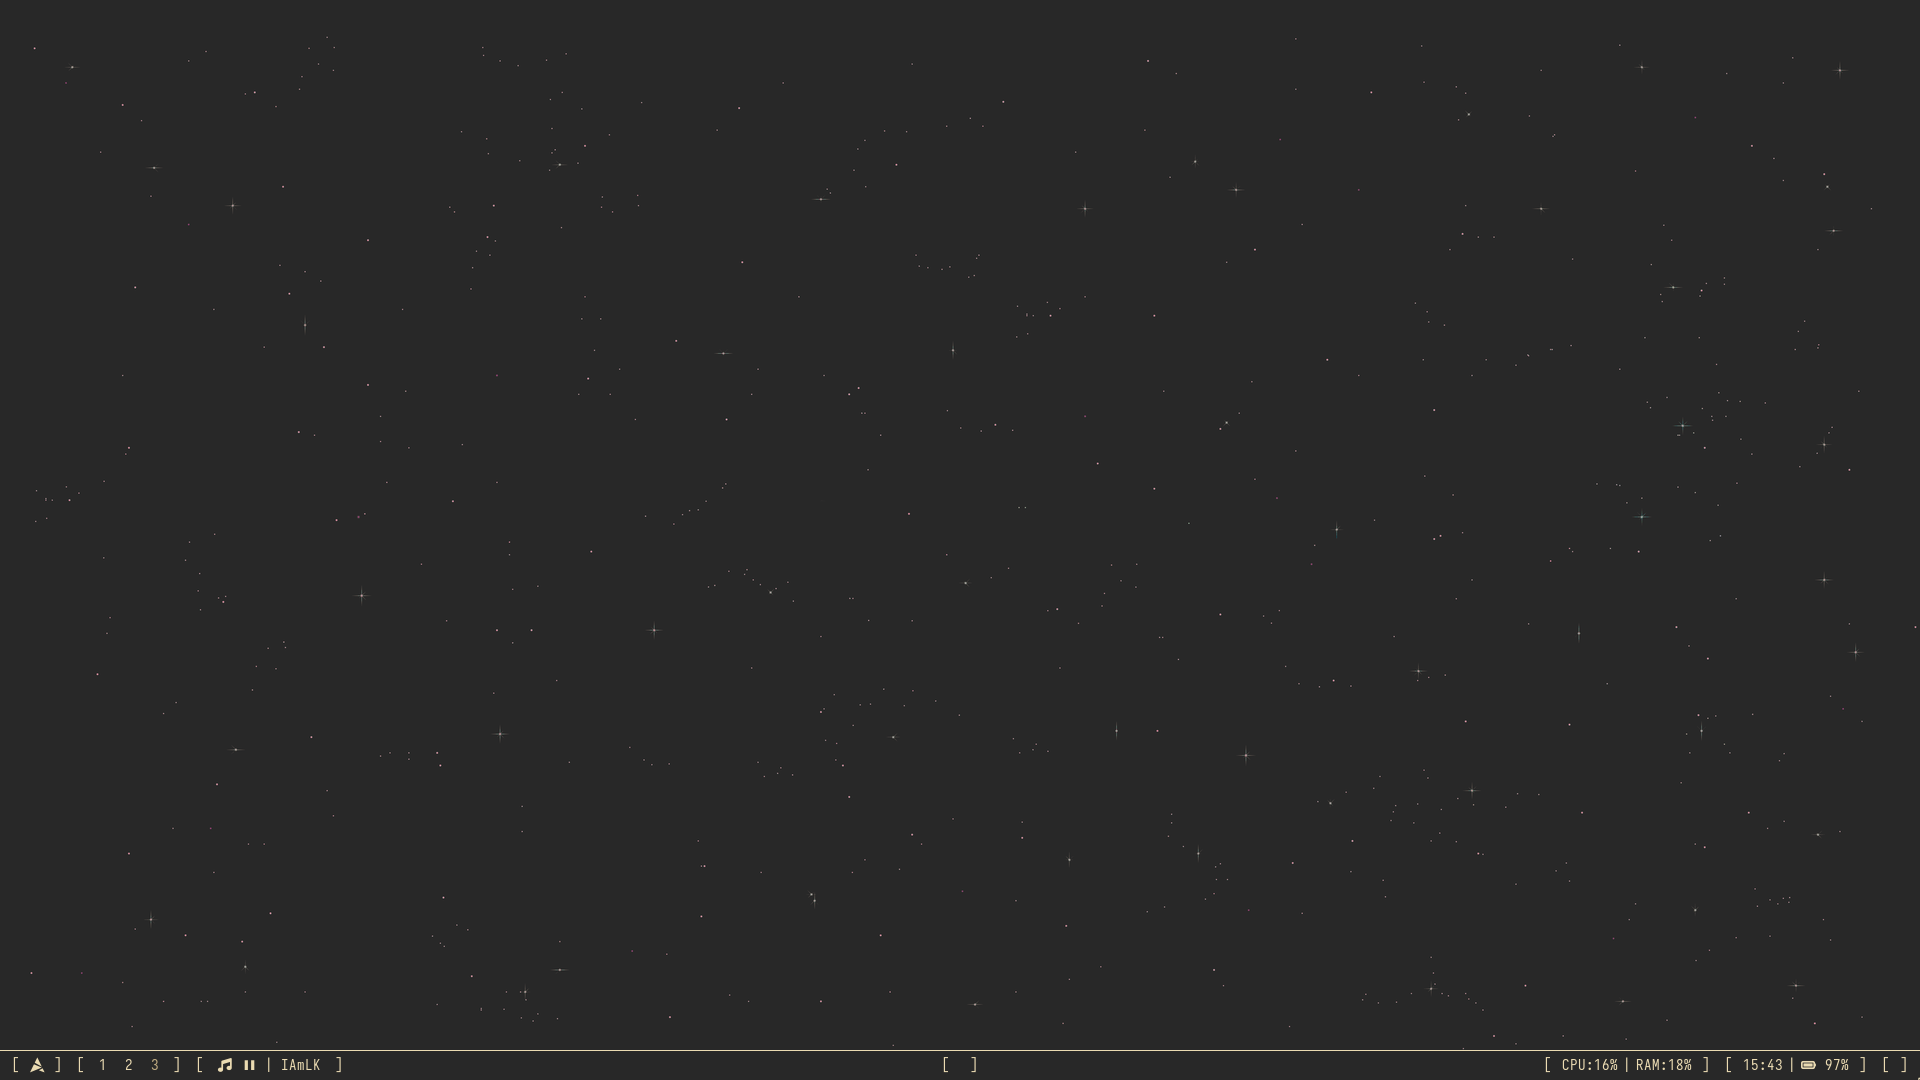
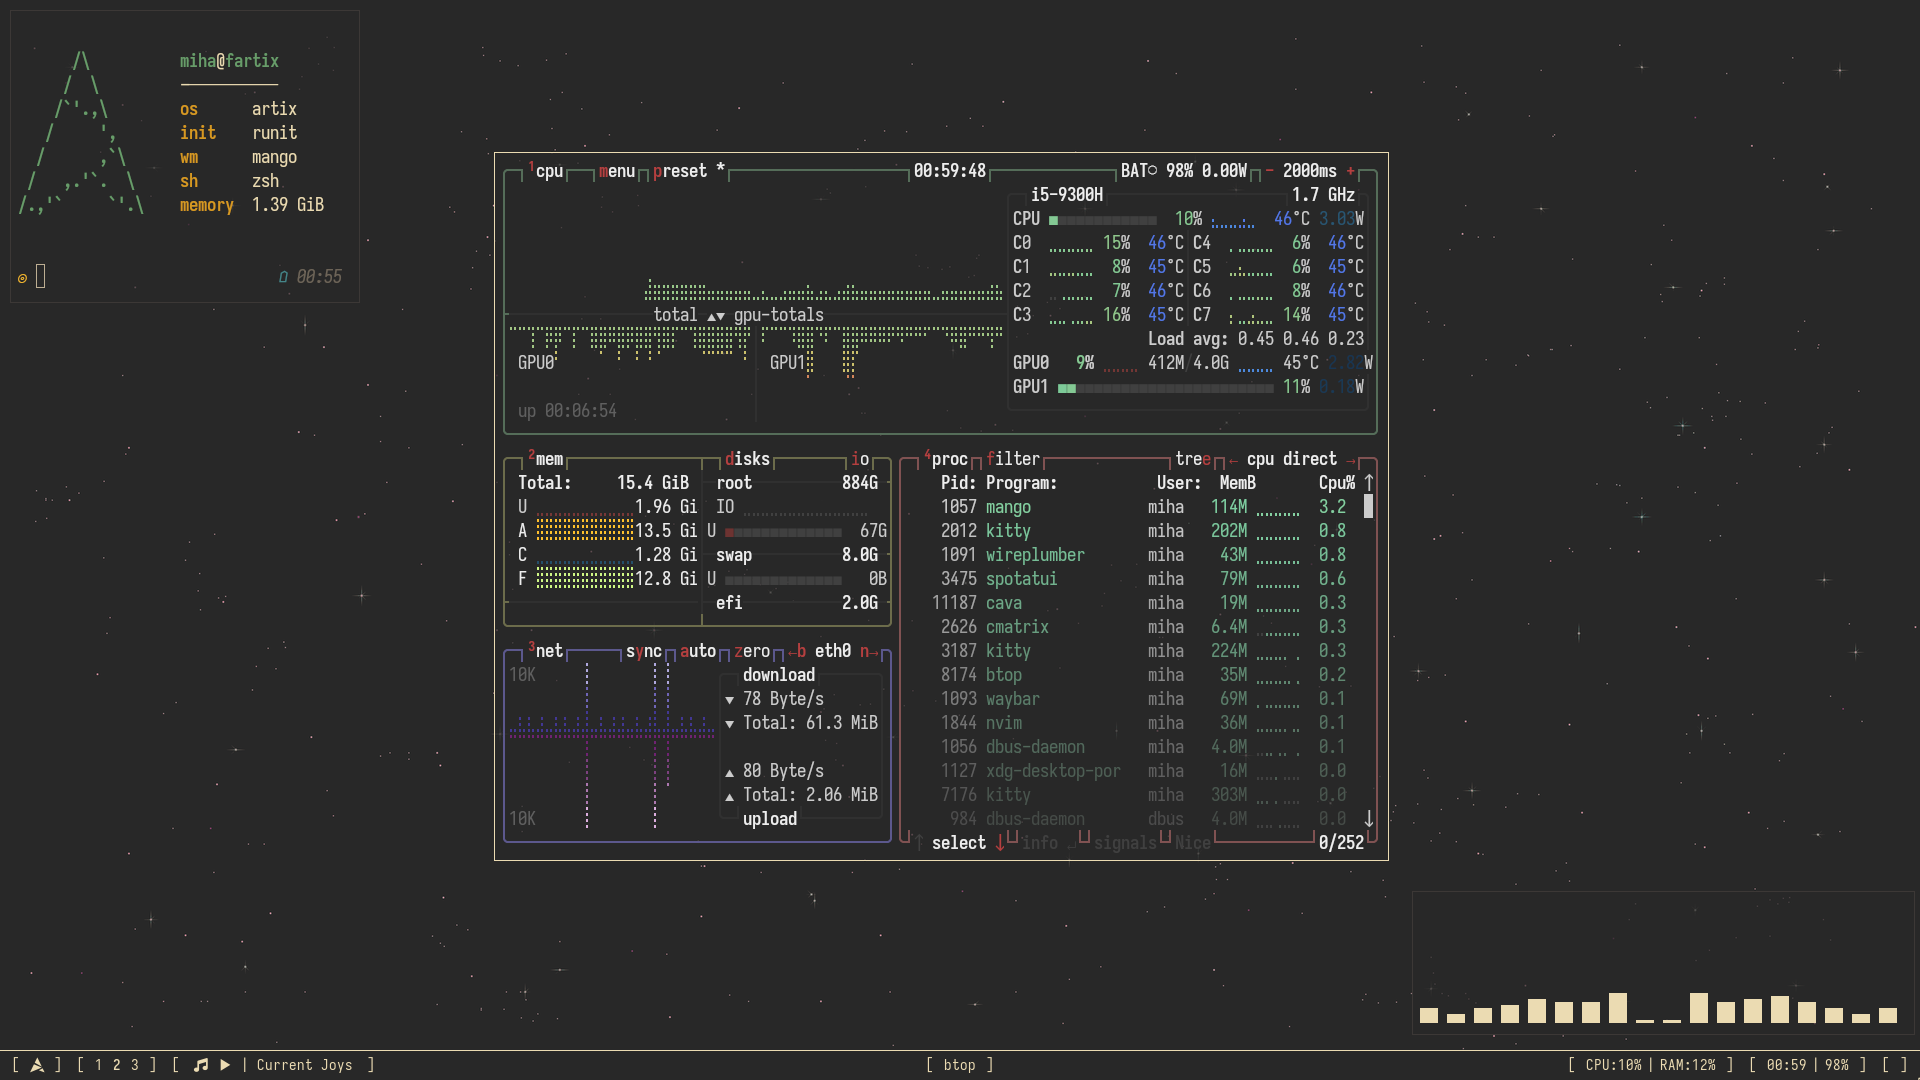
yazi.nvim and new previews

diff --git a/waybar/.config/waybar/style.css b/waybar/.config/waybar/style.css
@@ -59,6 +59,7 @@ window#waybar.empty #window {
 }
 
 #workspaces button {
+  all: unset;
   min-width: 0;
   padding: 0 5px;
   background-color: transparent;
@@ -67,7 +68,8 @@ window#waybar.empty #window {
 }
 
 #workspaces button.active {
-  color: @focused2;
+  color: @text;
+  font-weight: 600;
   background-color: @background;
 }
 